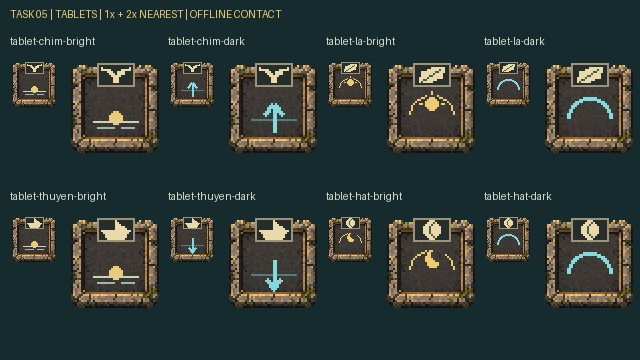
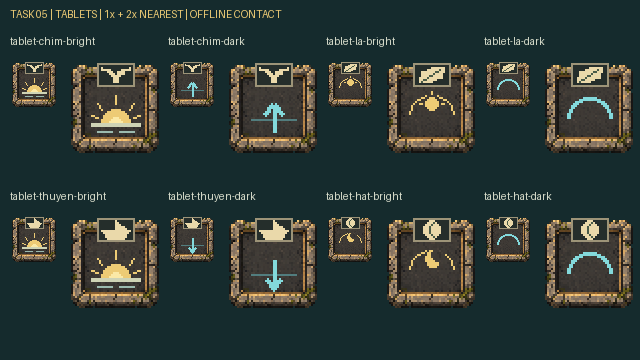
fix(level03): clear sunrise symbol and a visibly open exit gate
The sunrise clue shared by the Chim and Thuyen tablets was a 7px bump on a hairline
near the tablet's bottom edge, and shrank to a dot as the start marker at the well.
It is now a larger half-sun with a lighter core, five rays, a thick horizon and water
ticks, kept inside the tablet face. The start marker at the well is drawn larger.

The exit gate swapped to woods_arch_open, which is only the shut door made brighter,
so the gate never looked open once the crystal was taken. The open state now uses the
real tunnel-mouth passage art from the Whispering Woods set (already loaded).

Only the four sprites that use the sunrise and the tablets contact sheet were
regenerated; asset-map and validation hashes were updated for those files alone.

diff --git a/src/levels/LibraryLevel.ts b/src/levels/LibraryLevel.ts
@@ -504,9 +504,9 @@ export class LibraryLevel {
     // Dark backing disc above the well art keeps the start sun readable on the carved lid.
     const backing = this.scene.add.graphics().setDepth(LIBRARY_LAYOUT.groundDepth - 0.45);
     backing.fillStyle(0x0d1414, 0.75);
-    backing.fillCircle(start.x, markY, 13);
+    backing.fillCircle(start.x, markY, 16);
     this.track(backing);
-    this.addImage('bright-horizon-sun', start.x, markY, 30, 30, LIBRARY_LAYOUT.groundDepth - 0.4).setTint(LIBRARY_WARM);
+    this.addImage('bright-horizon-sun', start.x, markY, 38, 38, LIBRARY_LAYOUT.groundDepth - 0.4).setTint(LIBRARY_WARM);
     // Soft warm glow above the darkness so the start marker stays visible with the lantern off.
     const glow = this.scene.add.image(start.x, markY, 'light_radial')
       .setTint(LIBRARY_WARM).setBlendMode(Phaser.BlendModes.ADD).setScale(0.18).setAlpha(0.45).setDepth(LIBRARY_GLOW_DEPTH);
@@ -1031,7 +1031,10 @@ export class LibraryLevel {
   }
 
   private updateExitTextures(open: boolean): void {
-    const texture = open ? 'woods_arch_open' : 'woods_arch_locked';
+    // `woods_arch_open` is only the shut door made brighter, so the open gate uses the real passage art (a dark
+    // tunnel mouth) from the Whispering Woods set; it is loaded for every level.
+    const passage = getLevelArtKey(1, 'woods_arch_open_passage');
+    const texture = open ? (passage && this.scene.textures.exists(passage) ? passage : 'woods_arch_open') : 'woods_arch_locked';
     const baseKey = this.createArchLayerTexture(texture, 'base');
     if (this.exitBaseImage && this.exitBaseImage.texture.key !== baseKey) this.exitBaseImage.setTexture(baseKey);
     const layers = ['header', 'left-post', 'right-post'];

diff --git a/assets/levels/03-library-beneath-the-roots/prepare_assets.py b/assets/levels/03-library-beneath-the-roots/prepare_assets.py
@@ -37,7 +37,14 @@ def glyph(name):
         d.ellipse((20,2,28,11),fill=rim);d.line([(25,3),(23,5),(23,8),(25,10)],fill='#495b48',width=1)
     return im
 for n in ['chim','la','thuyen','hat']:save('border-'+n,glyph(n),'native identity icon only')
-low=blank();d=ImageDraw.Draw(low);d.ellipse((21,25,27,31),fill=gold);d.line((13,30,35,30),fill='#ced3b5');d.line((15,33,23,33),fill='#9bbaaf');d.line((27,33,33,33),fill='#9bbaaf')
+low=blank();d=ImageDraw.Draw(low)
+# Sunrise: a large half-disc on a thick horizon, five rays fanning above it and water ticks below, so it reads as a
+# rising sun at tablet size instead of a small bump on a hairline.
+hx,hy=24,31
+for x0,y0,x1,y1 in [(24,21,24,17),(31,24,33,21),(17,24,15,21),(33,28,36,27),(15,28,12,27)]:d.line((x0,y0,x1,y1),fill=gold,width=1)
+d.pieslice((hx-7,hy-7,hx+7,hy+7),180,360,fill=gold);d.pieslice((hx-3,hy-3,hx+3,hy+3),180,360,fill='#fbe9a6')
+d.line((12,hy,36,hy),fill='#ced3b5',width=2)
+d.line((15,35,22,35),fill='#9bbaaf');d.line((26,35,33,35),fill='#9bbaaf')
 save('bright-horizon-sun',low,'native shared clue: Chim and Thuyen byte-identical')
 for kind in ['sun','moon']:
     im=blank();d=ImageDraw.Draw(im);d.arc((13,17,35,37),185,255,fill=gold,width=1);d.arc((13,17,35,37),285,355,fill=gold,width=1)
@@ -61,7 +68,7 @@ for state in ['empty','occupied','selected']:
     if state=='selected':
         for x,y,sx,sy in [(1,1,1,1),(46,1,-1,1),(1,46,1,-1),(46,46,-1,-1)]:d.line([(x,y+sy*8),(x,y),(x+sx*8,y)],fill=gold,width=2)
     save('socket-'+state,im,'native socket state; occupied is neutral seating placeholder under actual tablet')
-im=Image.new('RGBA',(20,16));d=ImageDraw.Draw(im);d.ellipse((7,3,13,9),fill=gold);d.line((2,9,18,9),fill=gold,width=2);d.line((5,12,15,12),fill='#b5c5ad');save('start-horizon',im,'native scenario start icon; no ordering labels')
+im=Image.new('RGBA',(20,16));d=ImageDraw.Draw(im);d.line((10,3,10,1),fill=gold);d.line((14,5,16,3),fill=gold);d.line((6,5,4,3),fill=gold);d.line((17,8,19,7),fill=gold);d.line((3,8,1,7),fill=gold);d.pieslice((5,4,15,14),180,360,fill=gold);d.line((1,9,19,9),fill='#ced3b5',width=2);d.line((4,12,16,12),fill='#b5c5ad');save('start-horizon',im,'native scenario start icon; no ordering labels')
 im=Image.new('RGBA',(24,12));d=ImageDraw.Draw(im);d.line((2,6,20,6),fill='#9dbbad',width=2);d.line([(16,2),(21,6),(16,10)],fill='#9dbbad',width=2);save('route-cue',im,'native directional connector; rotate at composition; no tablet identities')
 book=fit(B/'sources/test-book-body-generated.png',(56,40));save('test-book-body',book,'generated body normalized nearest','assets/levels/03-library-beneath-the-roots/sources/test-book-body-generated.png')
 for state in ['bright','dark']:
